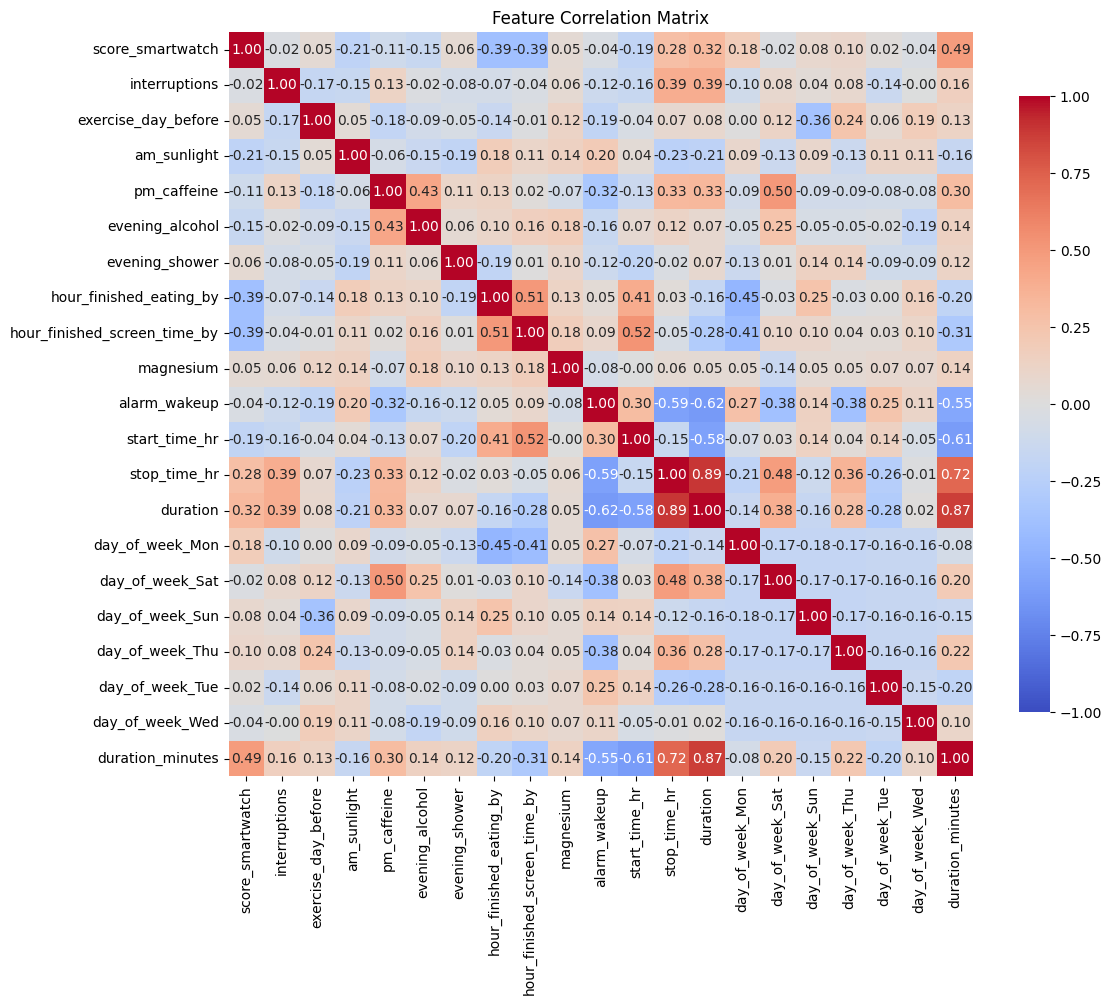
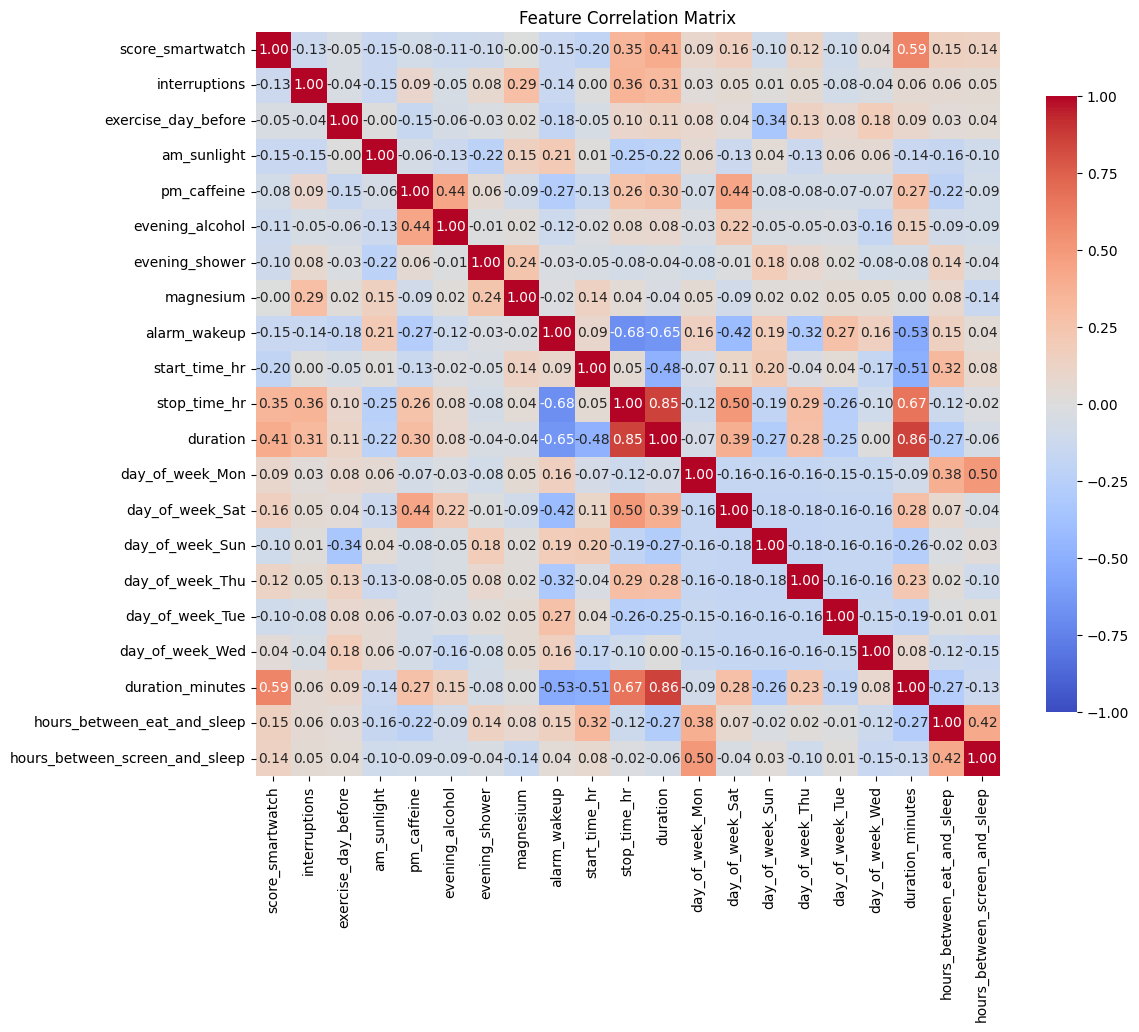
Converted two time features to interval features

diff --git a/model.py b/model.py
@@ -26,6 +26,10 @@ def convert_to_minutes(duration):
 
 df['duration_minutes'] = df['duration_smartwatch'].apply(convert_to_minutes)
 
+# Convert hour finished eating/screentime by to time interval between eating/screentime and sleep time
+df['hours_between_eat_and_sleep'] = 12 + df['start_time_hr'] - df['hour_finished_eating_by']
+df['hours_between_screen_and_sleep'] = 12 + df['start_time_hr'] - df['hour_finished_screen_time_by']
+
 # Drop columns
 df = df.drop(columns=[
     'date',
@@ -35,7 +39,10 @@ df = df.drop(columns=[
     'stop_raw',
     'duration_smartwatch',
     'rating_smartwatch',
-    'melatonin'])
+    'melatonin',
+    'hour_finished_eating_by',
+    'hour_finished_screen_time_by',
+    ])
 
 # Compute the correlation matrix
 correlation_matrix = df.corr()

diff --git a/make_plots.py b/make_plots.py
@@ -127,7 +127,7 @@ def plot_sleep(filename="sleep.csv"):
 
     fig, ax = plt.subplots()
 
-    ymin = 3.75
+    ymin = 3.00
     ymax = 11.5
 
     # Background colors
